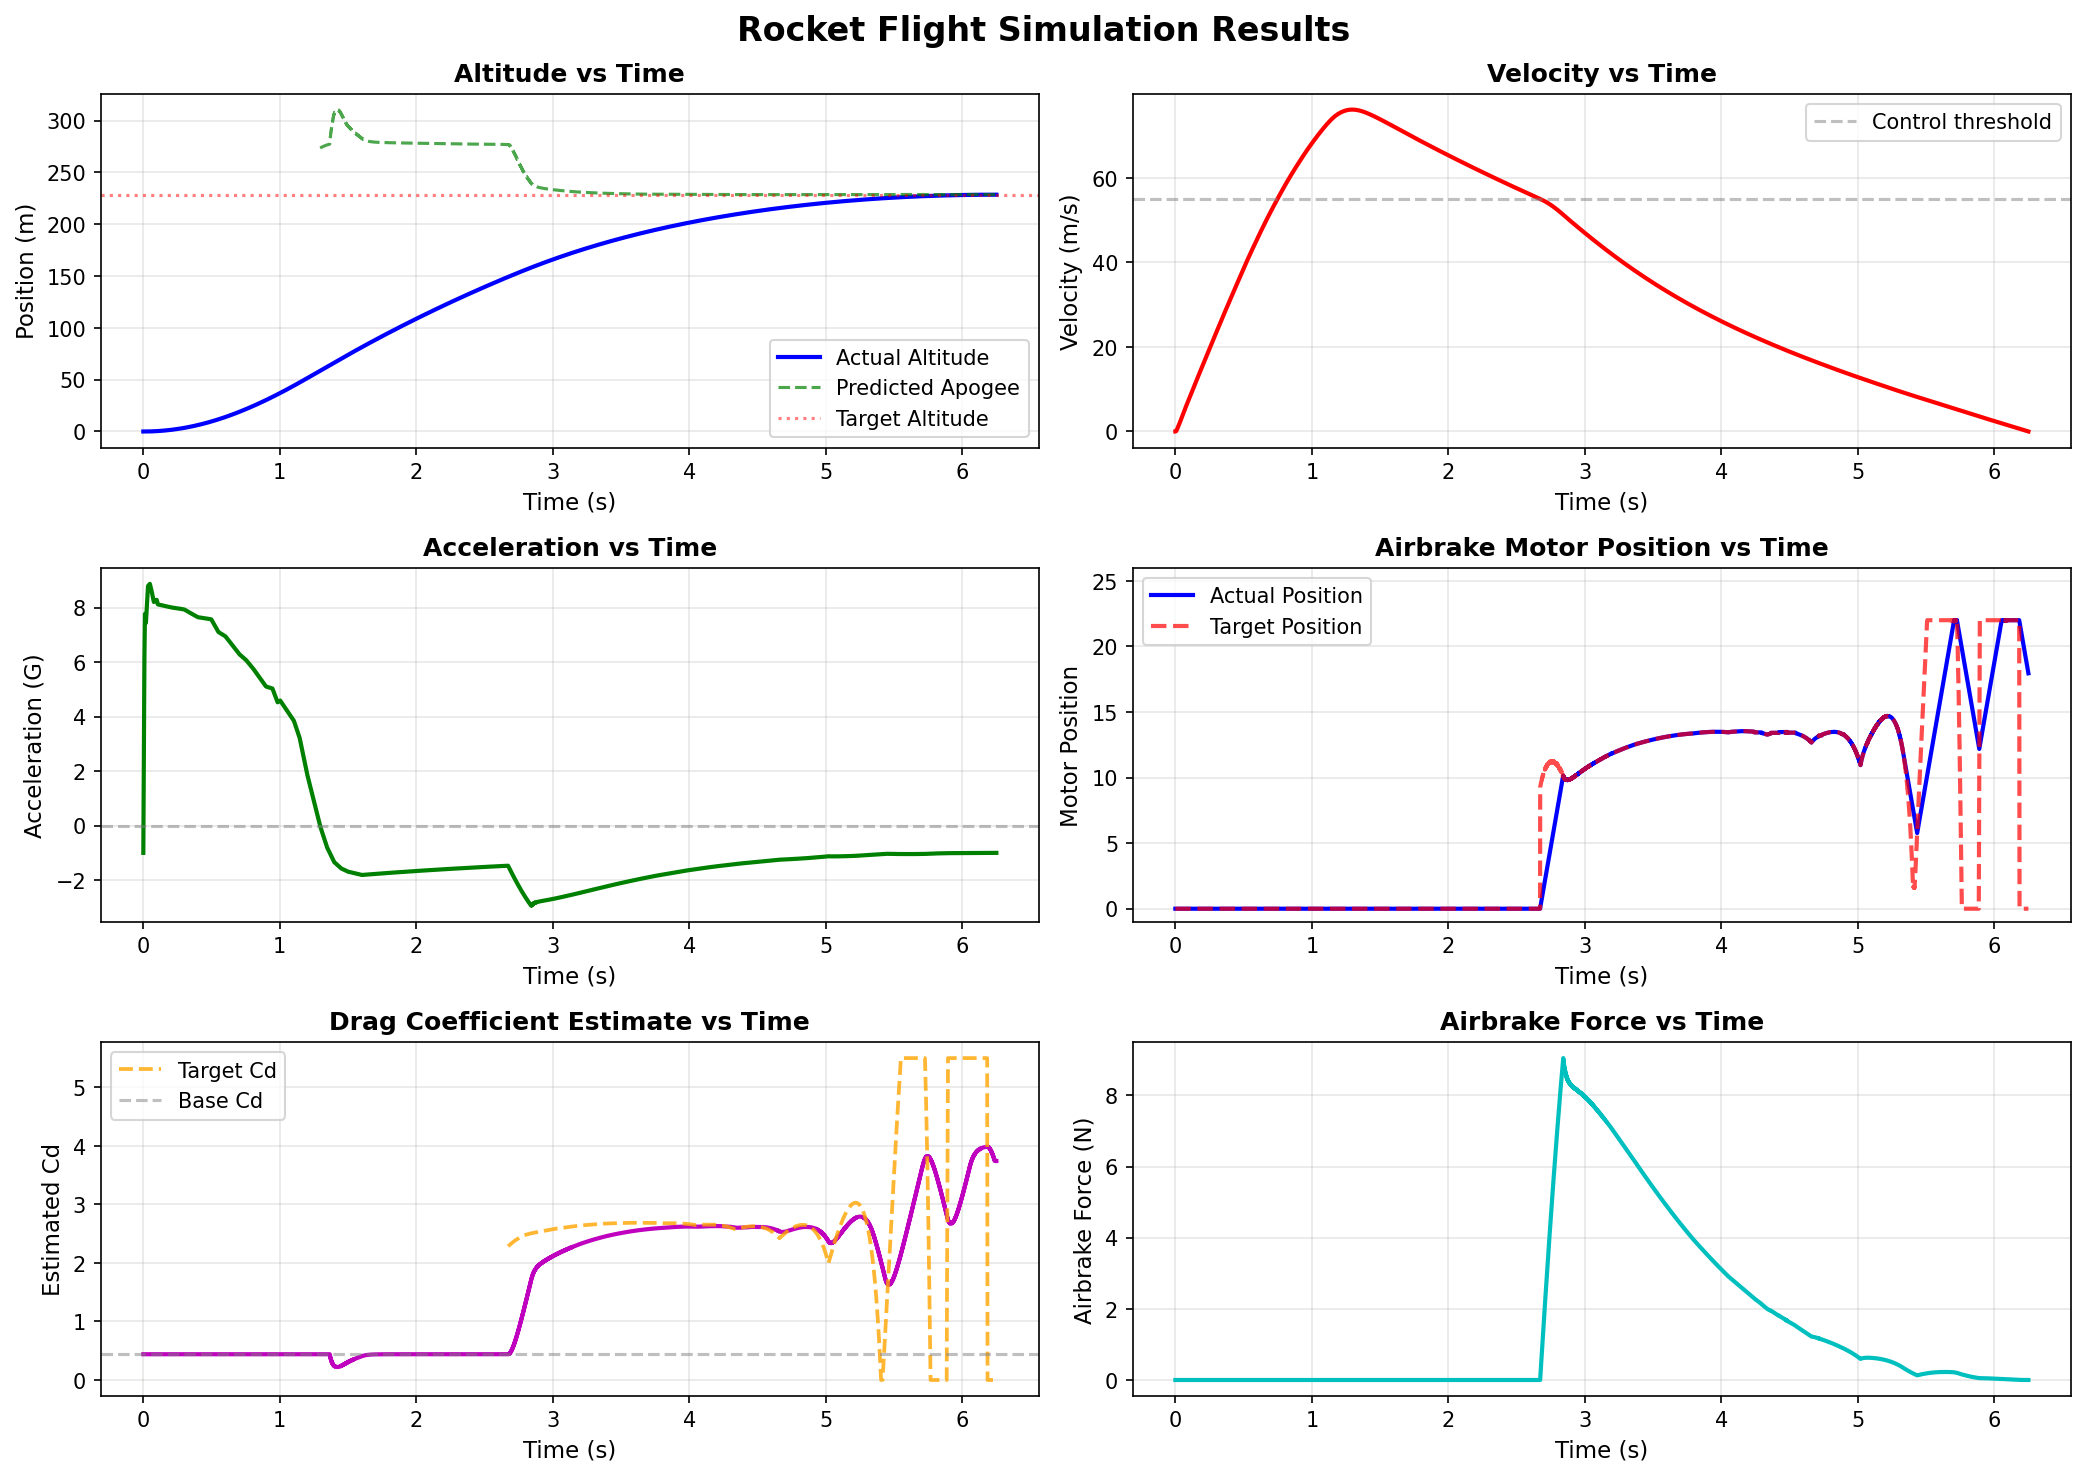
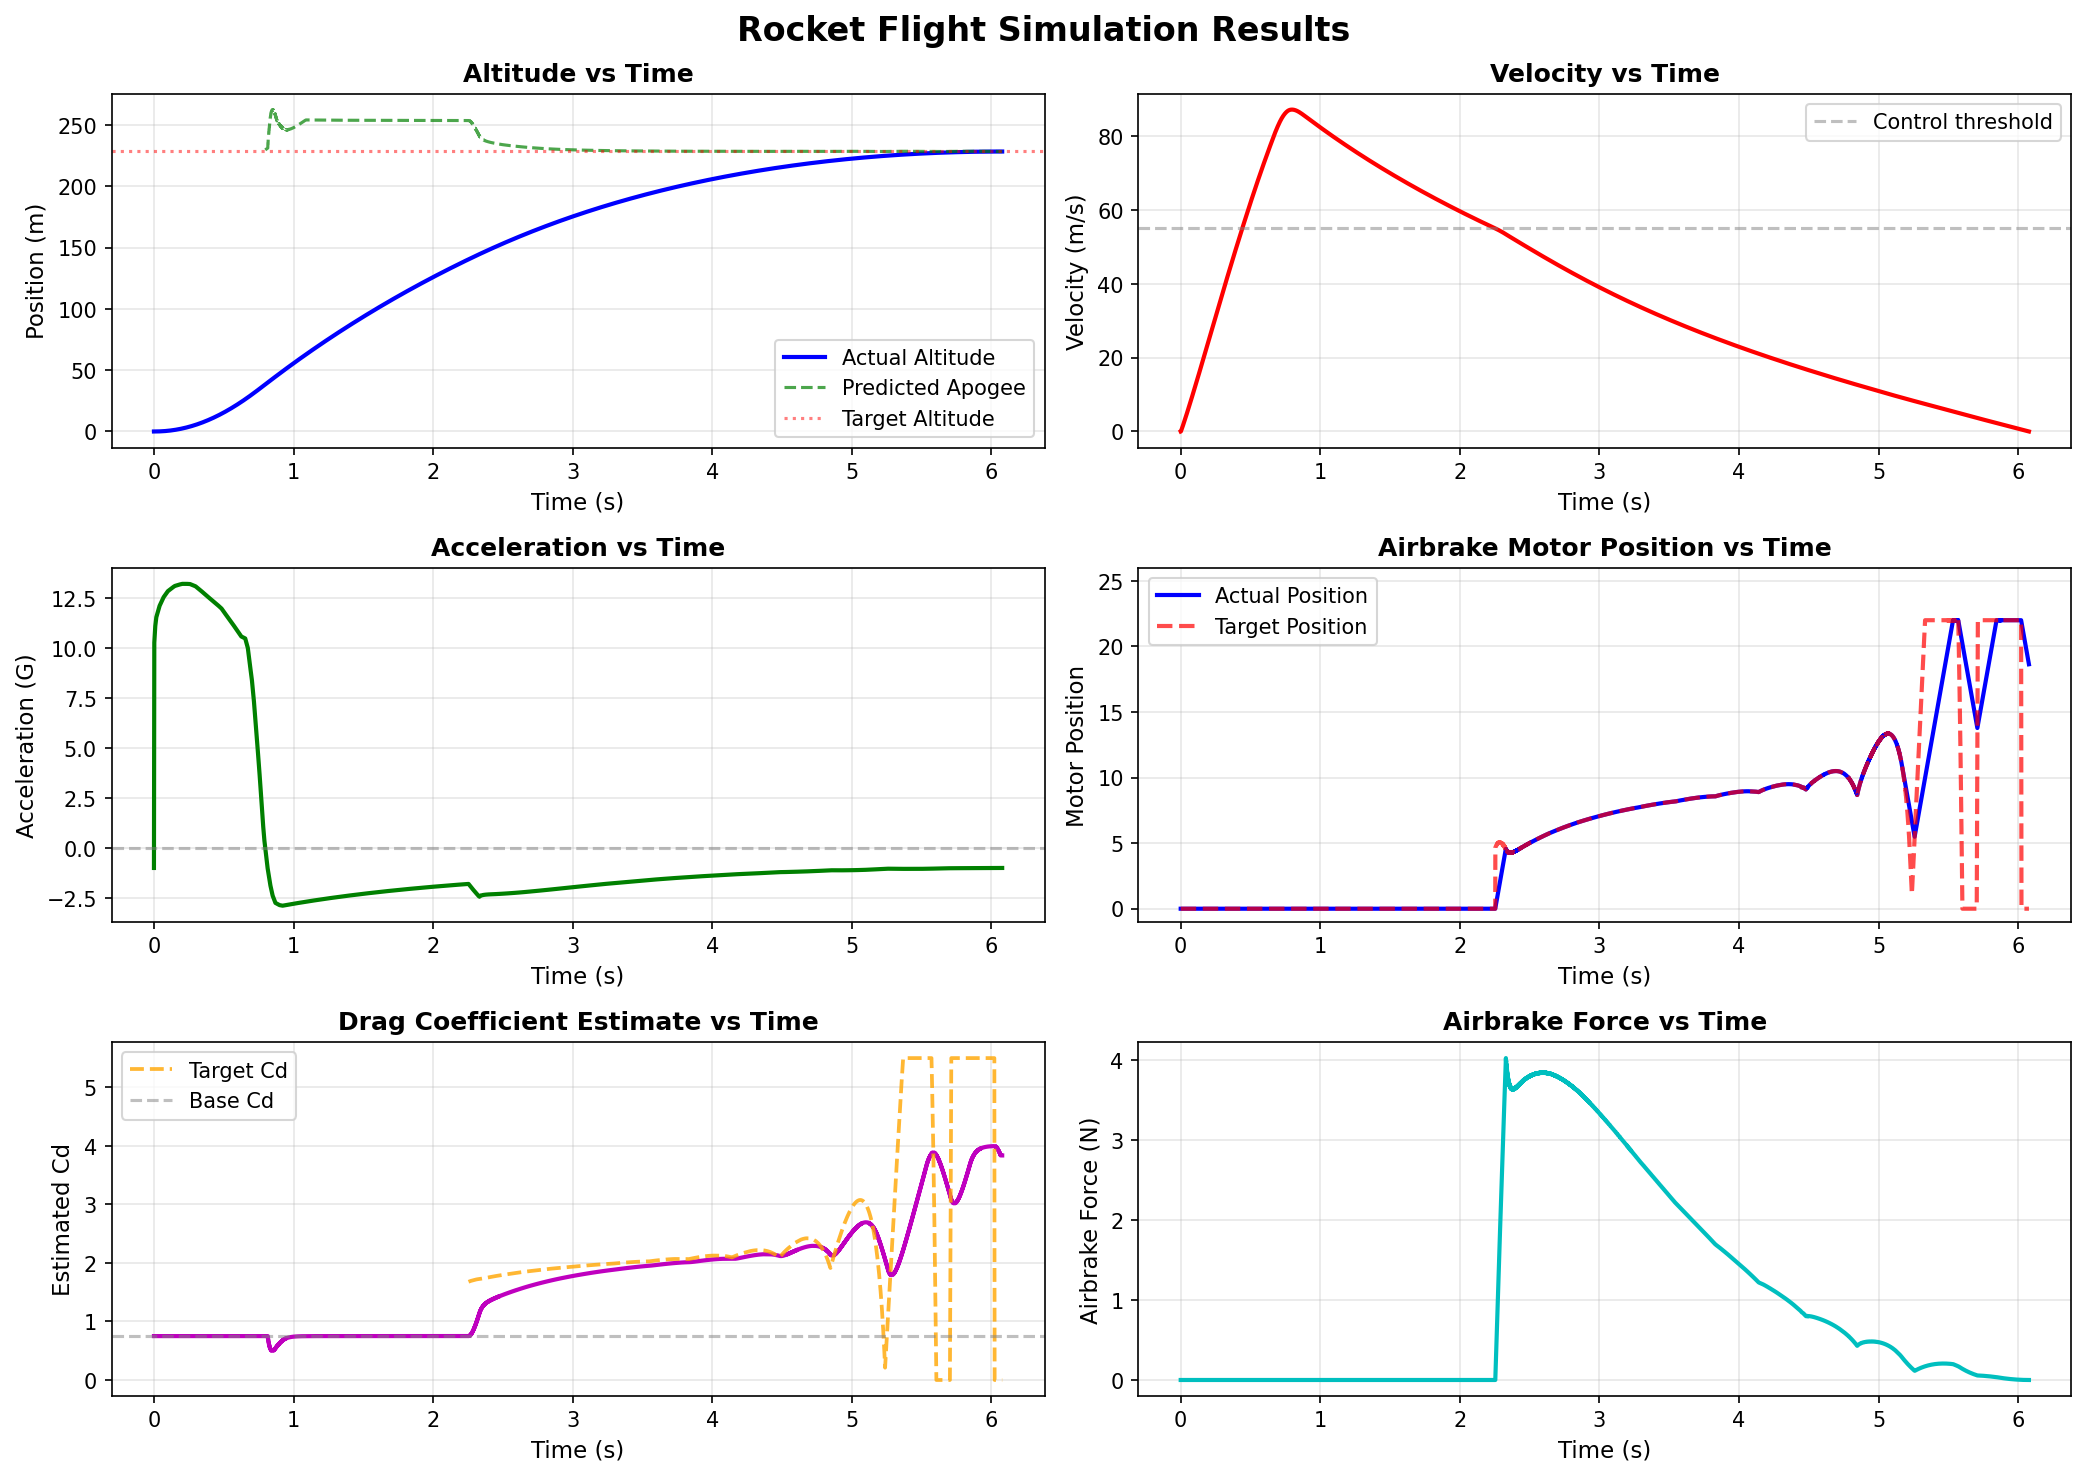
F67 simulation

diff --git a/sim/rocket_sim.py b/sim/rocket_sim.py
@@ -29,8 +29,8 @@ def get_remaining_altitude(velocity, cd):
     return alt_0 * (1 - cd_weight) + alt_1 * cd_weight
 
 # Constants from config.h
-MASS = 0.603  # kg
-BASE_CD = 0.44  # From OpenRocket
+MASS = 0.607  # kg
+BASE_CD = 0.75 # From OpenRocket
 AREA = (np.pi * (6.6 / 100.0) ** 2) / 4.0  # m^2
 RHO = 1.225  # kg/m^3
 G = 9.80665  # m/s^2
@@ -268,7 +268,7 @@ def flight_computer(pos, vel, accel, cd_estimate, motor_position, cd_controller,
 def run_simulation():
     """Run the rocket simulation."""
     # Load thrust curve
-    thrust_func = load_thrust_curve('AeroTech_F35W.csv')
+    thrust_func = load_thrust_curve('AeroTech_F67W.csv')
     
     # Initialize state
     t = 0.0
